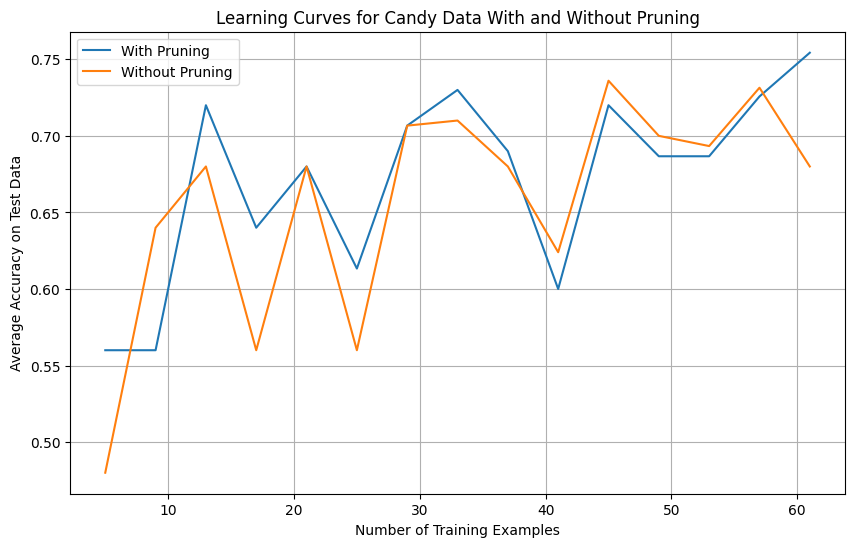
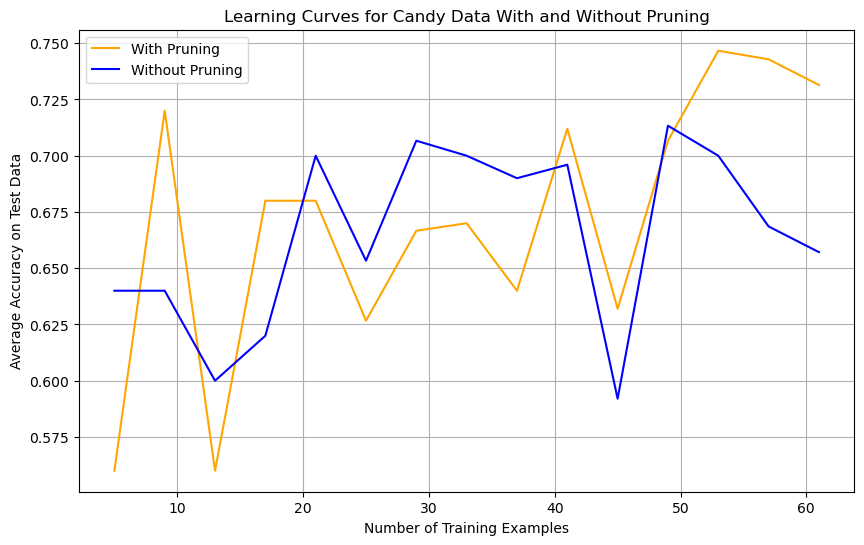
refactor code

diff --git a/homework-1/plot_learning_curves.py b/homework-1/plot_learning_curves.py
@@ -1,0 +1,116 @@
+"""
+Plotting the learning curves for house data, candy data, and
+tennis data.
+"""
+import math
+import random
+
+import ID3
+import matplotlib.pyplot as plt
+import parse
+
+
+def plot_learning_curve(
+    training_sizes,
+    avg_accuracies_with_pruning,
+    avg_accuracies_without_pruning,
+    dataset_name,
+):
+    """
+    Plot learning curves.
+
+    Args:
+        training_sizes: List of training set sizes
+        avg_accuracies_with_pruning: List of average accuracies with pruning
+        avg_accuracies_without_pruning: List of average accuracies
+                                        without pruning
+        dataset_name: name of the dataset of plot title and image filename.
+    """
+    plt.figure(figsize=(10, 6))
+    plt.plot(
+        training_sizes,
+        avg_accuracies_with_pruning,
+        label="With Pruning",
+        color="orange",
+    )
+    plt.plot(
+        training_sizes,
+        avg_accuracies_without_pruning,
+        label="Without Pruning",
+        color="blue",
+    )
+    plt.xlabel("Number of Training Examples")
+    plt.ylabel("Average Accuracy on Test Data")
+    plt.title(f"Learning Curves for {dataset_name} Data With and Without Pruning")
+    plt.legend()
+    plt.grid(True)
+    plt.savefig(f"images/learning_curve_{dataset_name}.png", bbox_inches="tight")
+    print(f"Saved image as images/learning_curve_{dataset_name}.png")
+
+
+def calculate_accuracy_for_plot(
+    dataset_filename, training_sizes, loop_size, dataset_name
+):
+    avg_test_accuracy_with_pruning = []
+    avg_test_accuracy_without_pruning = []
+
+    for train_size in training_sizes:
+        with_pruning = []
+        without_pruning = []
+        data = parse.parse(dataset_filename)
+
+        for _ in range(loop_size):
+            random.shuffle(data)
+            validation_size = max(
+                1, math.ceil((int(train_size / 0.8) - train_size) // 2)
+            )
+            test_size = validation_size
+            train = data[:train_size]
+            valid = data[train_size : train_size + validation_size]
+            test = data[
+                train_size + validation_size : train_size + validation_size + test_size
+            ]
+
+            tree = ID3.ID3(train, 0)
+            ID3.prune(tree, valid)
+            acc = ID3.test(tree, test)
+            with_pruning.append(acc)
+            tree = ID3.ID3(train + valid, 0)
+            acc = ID3.test(tree, test)
+            without_pruning.append(acc)
+
+        avg_accuracy_with_pruning = sum(with_pruning) / len(with_pruning)
+        avg_accuracy_without_pruning = sum(without_pruning) / len(without_pruning)
+        avg_test_accuracy_with_pruning.append(avg_accuracy_with_pruning)
+        avg_test_accuracy_without_pruning.append(avg_accuracy_without_pruning)
+
+    plot_learning_curve(
+        training_sizes,
+        avg_test_accuracy_with_pruning,
+        avg_test_accuracy_without_pruning,
+        dataset_name,
+    )
+
+
+def plot_learning_curve_house_data(dataset_filename):
+    training_sizes = range(10, 305, 5)
+    print("Calculating ...")
+    calculate_accuracy_for_plot(dataset_filename, training_sizes, 100, "House Votes")
+
+
+def plot_learning_curve_tennis_data(dataset_filename):
+    training_sizes = range(1, 9, 1)
+    print("Calculating ...")
+    calculate_accuracy_for_plot(dataset_filename, training_sizes, 10, "Tennis")
+
+
+def plot_learning_curve_candy_data(dataset_filename):
+    training_sizes = range(5, 64, 4)
+    print("Calculating ...")
+    calculate_accuracy_for_plot(dataset_filename, training_sizes, 25, "Candy")
+
+
+if __name__ == "__main__":
+    plot_learning_curve_house_data(dataset_filename="house_votes_84.data")
+    plot_learning_curve_tennis_data(dataset_filename="tennis.data")
+    plot_learning_curve_candy_data(dataset_filename="candy.data")

diff --git a/homework-1/unit_tests.py b/homework-1/unit_tests.py
@@ -95,7 +95,7 @@ def testID3AndTest():
 # inFile - string location of the house data file
 def testPruningOnHouseData(inFile):
     """
-    Test pruning of ID3 on a dataset of house data.
+    Test pruning of ID3 on house data.
     """
     withPruning = []
     withoutPruning = []
@@ -134,15 +134,15 @@ def testPruningOnHouseData(inFile):
         sum(withoutPruning) / len(withoutPruning),
     )
 
-# inFile - string location of the candy data file
+
 def testPruningCandyData(inFile):
     """
-    Test pruning of ID3 on a dataset of candy data.
+    Test pruning of ID3 on candy data.
     """
     withPruning = []
     withoutPruning = []
     data = parse.parse(inFile)
-    for _ in range(100):
+    for _ in range(25):
         random.shuffle(data)
         train = data[: len(data) // 2]
         valid = data[len(data) // 2 : 3 * len(data) // 4]
@@ -176,15 +176,15 @@ def testPruningCandyData(inFile):
         sum(withoutPruning) / len(withoutPruning),
     )
 
-# inFile - string location of the candy data file
+
 def testPruningTennisData(inFile):
     """
-    Test pruning of ID3 on a dataset of tennis data.
+    Test pruning of ID3 on tennis data.
     """
     withPruning = []
     withoutPruning = []
     data = parse.parse(inFile)
-    for _ in range(100):
+    for _ in range(10):
         random.shuffle(data)
         train = data[: len(data) // 2]
         valid = data[len(data) // 2 : 3 * len(data) // 4]
@@ -210,12 +210,14 @@ def testPruningTennisData(inFile):
         acc = ID3.test(tree, test)
         print("no pruning test accuracy: ", acc)
         withoutPruning.append(acc)
+
     print(
         "average with pruning",
         sum(withPruning) / len(withPruning),
         " without: ",
         sum(withoutPruning) / len(withoutPruning),
     )
+
 
 def testRandomForestOnHouseData(inFile):
     """
@@ -241,6 +243,8 @@ if __name__ == "__main__":
     testPruning()
     testID3AndTest()
     testPruningOnHouseData(inFile="house_votes_84.data")
+
+    # additional tests
     testRandomForestOnHouseData(inFile="house_votes_84.data")
     testPruningCandyData("candy.data")
     testPruningTennisData("tennis.data")
